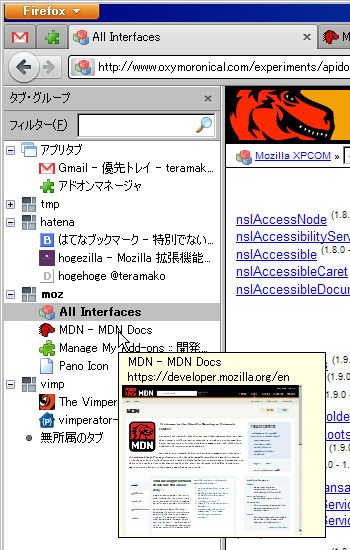
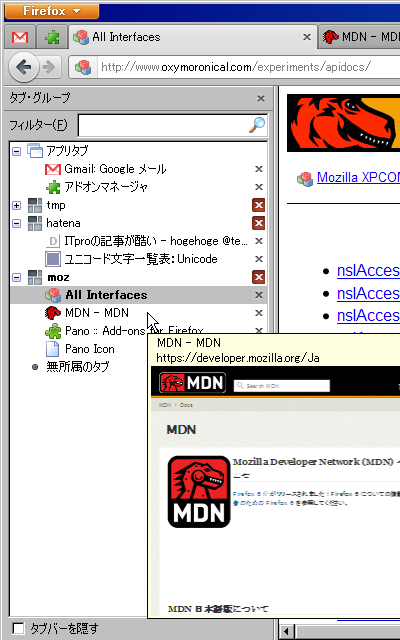
update sidebar.png and add explanation

diff --git a/Pano/index.html b/Pano/index.html
@@ -53,7 +53,7 @@
     <section>
       <h4 id="pano-sidebar">The sidebar</h4>
       <p class="img" title="Pano-sidebar" style="float: right;">
-        <img src="sidebar.png" width="350" height="550"/>
+        <img src="sidebar.png" width="400" height="640"/>
       </p>
       <p>
         Shows all tabs list by grouping.
@@ -94,6 +94,9 @@
         <li>Close the selected tab(s) (only on tabs)</li>
         <li>Close the sidebar</li>
       </ul>
+
+      <h5>Hide the tabbar automatically</h5>
+      <p>The checkbox in bottom of the sidebar can hide the tabbar during the sidebar is opening.</p>
     </section>
     <section>
       <h4 id="pano-button">Pano button</h4>
